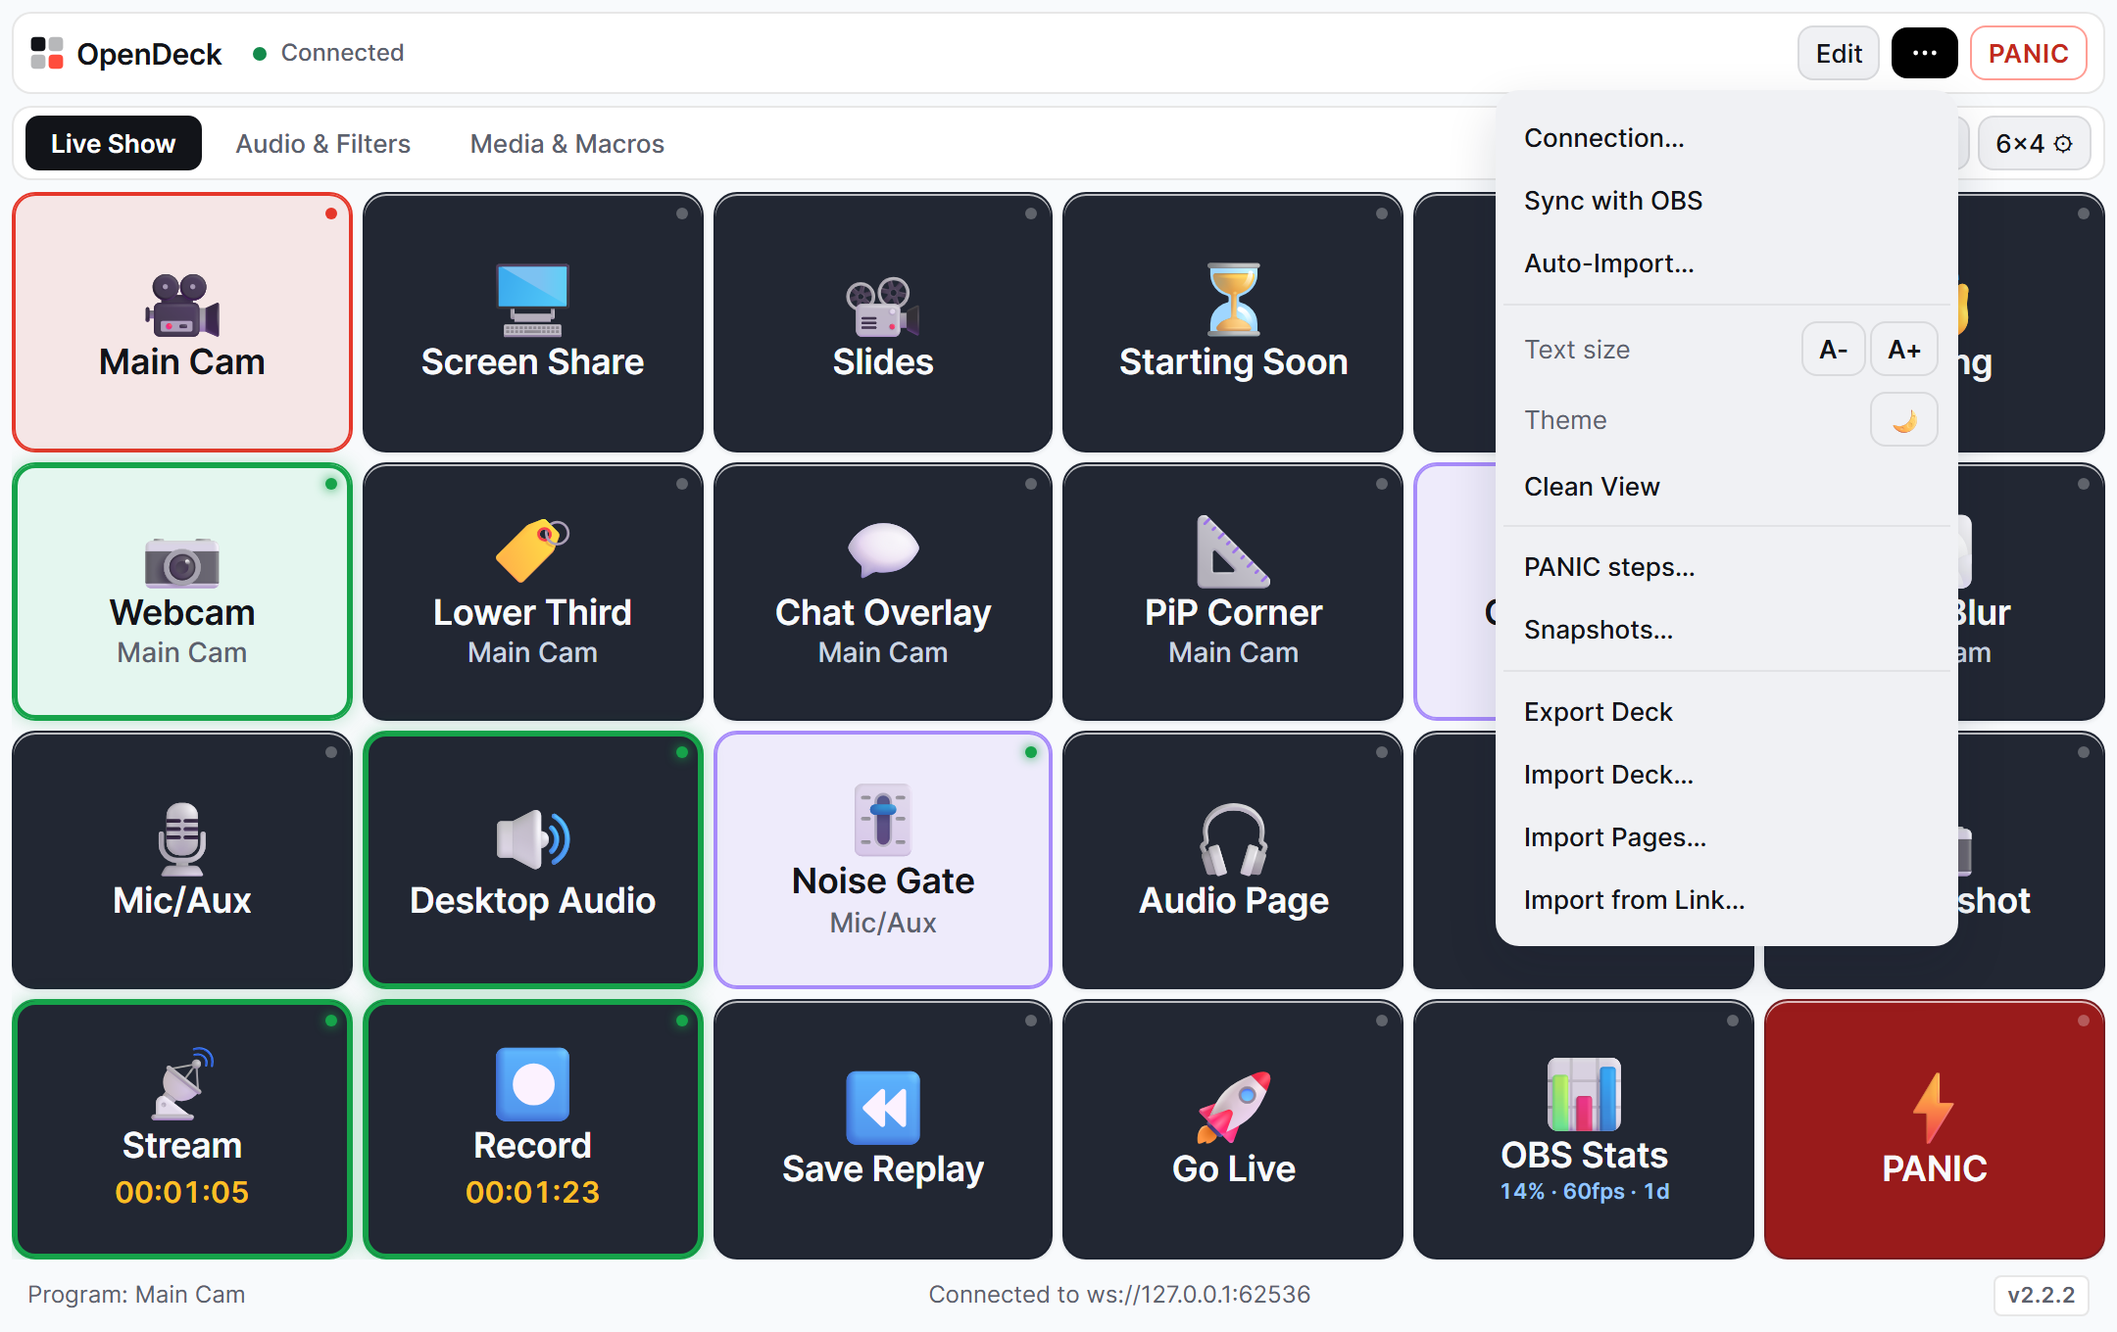
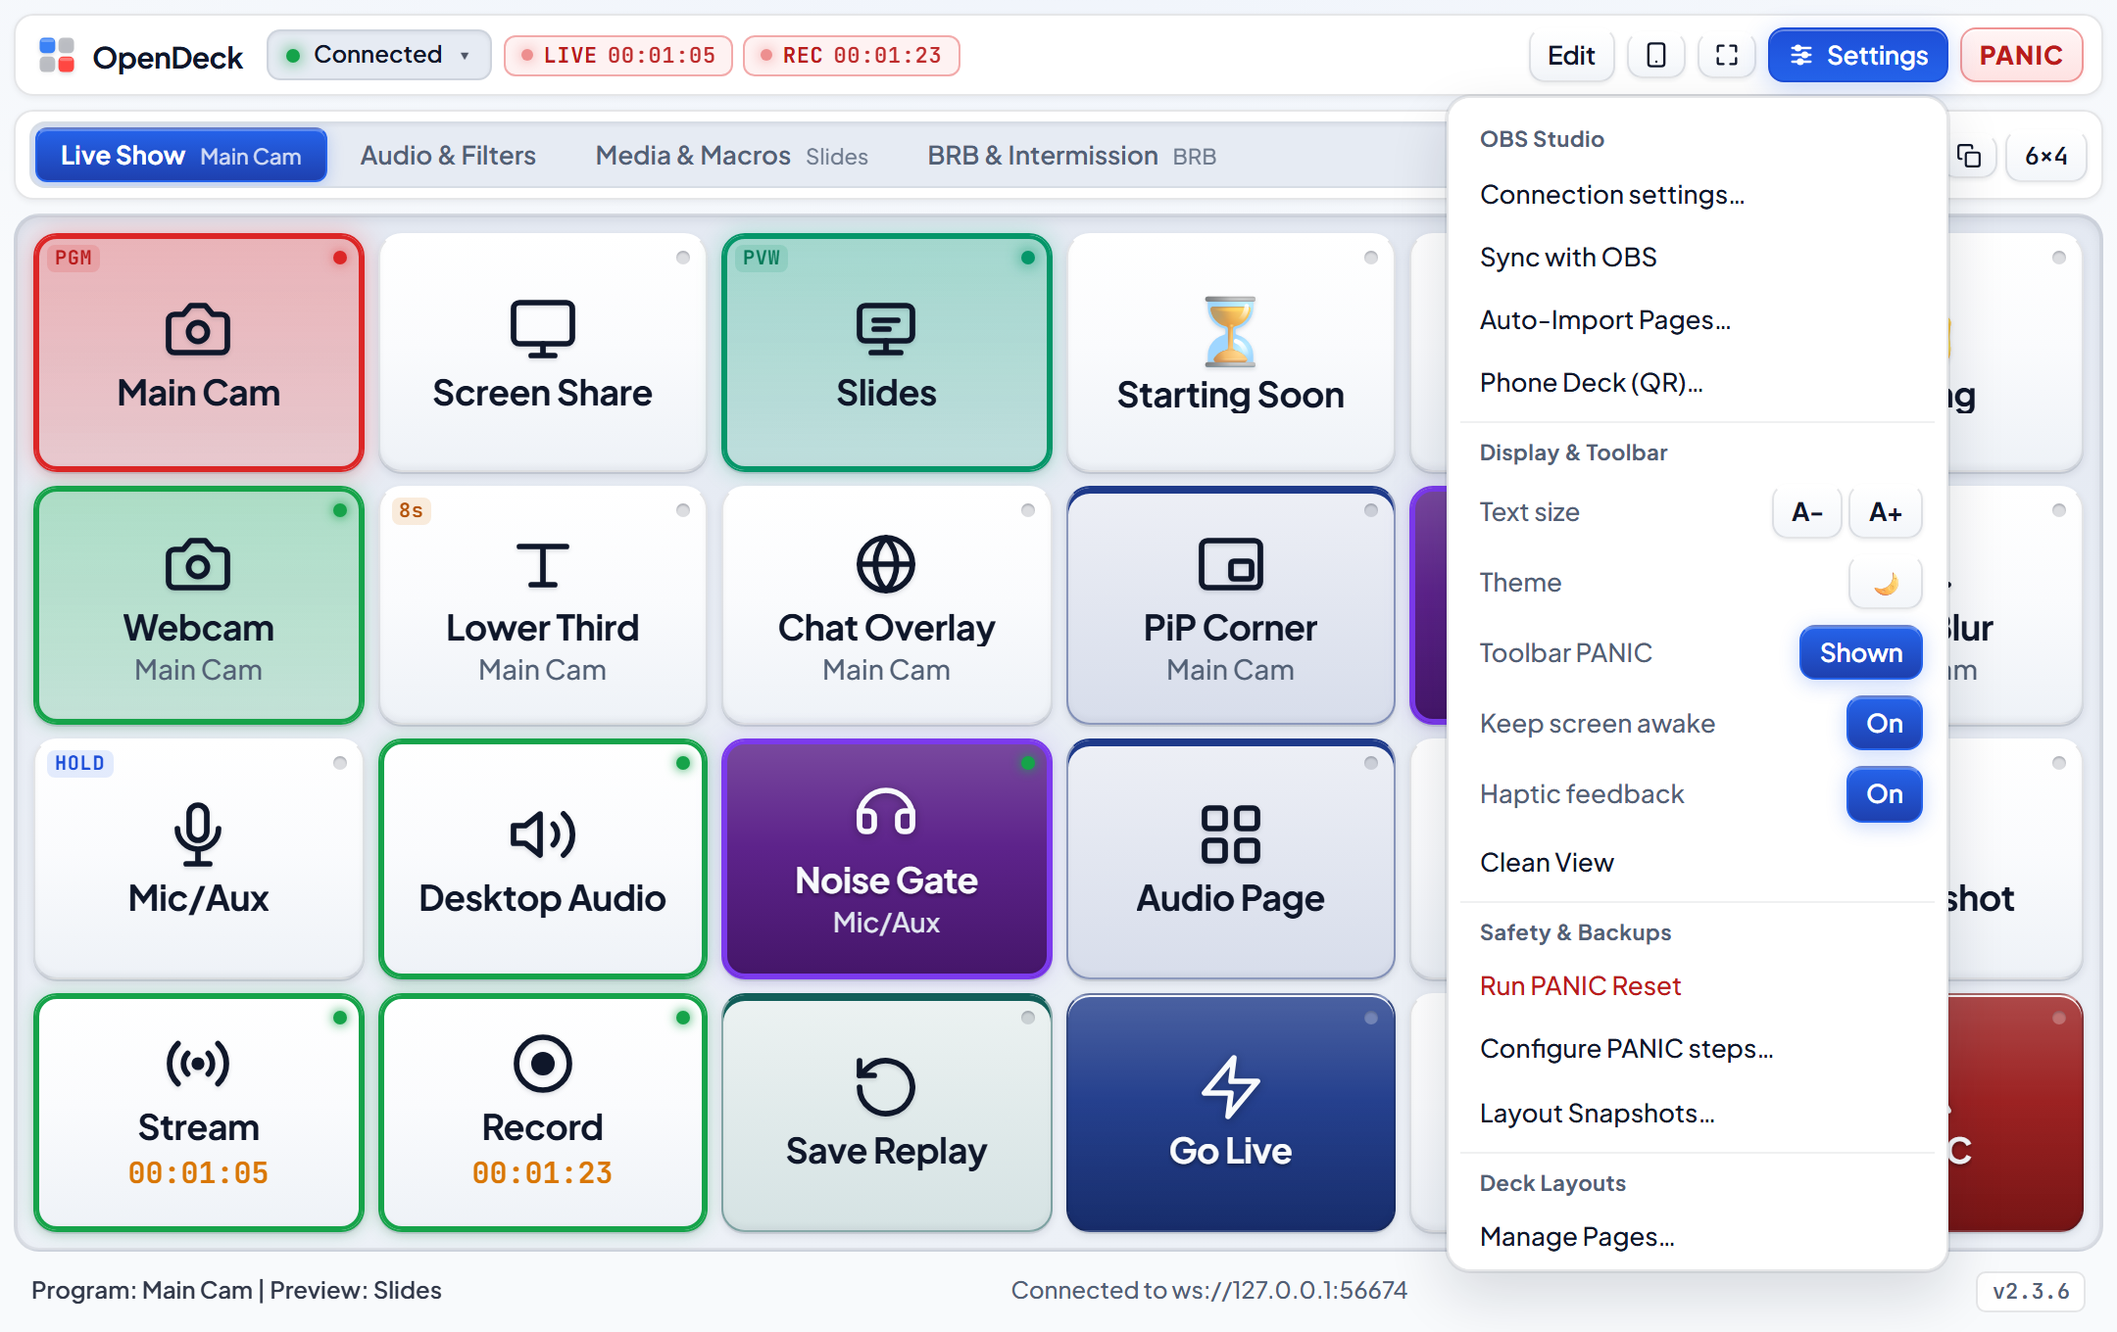
docs(release): refresh screenshots, update README, and bump to v2.4.0

diff --git a/deck.html b/deck.html
@@ -204,7 +204,7 @@
   <span id="scene-info">Program: —</span>
   <span id="msg-info" aria-live="polite">Ready</span>
   <span id="save-warning" class="save-warning" hidden title="Save failed: Export layout and use fewer or smaller Pad Graphics"></span>
-  <a id="version-badge" class="ver" href="https://github.com/JWCow/OpenDeck/releases" target="_blank" rel="noopener noreferrer" title="View OpenDeck releases on GitHub">v2.3.6</a>
+  <a id="version-badge" class="ver" href="https://github.com/JWCow/OpenDeck/releases" target="_blank" rel="noopener noreferrer" title="View OpenDeck releases on GitHub">v2.4.0</a>
 </div>
 <div id="clean-toast" class="clean-toast" role="status" aria-live="polite" hidden></div>
 

diff --git a/deck/obs-ws.js b/deck/obs-ws.js
@@ -1,7 +1,7 @@
 (() => {
   'use strict';
 
-  const VERSION = '2.3.6';
+  const VERSION = '2.4.0';
   const STORAGE_KEY = 'opendeck_config';
   const LEGACY_STORAGE_KEYS = ['obs_virtual_deck_v2', 'obs_deck_config_v2', 'obs_virtual_deck_v1'];
   let initialSaveFailed = false;

diff --git a/README.md b/README.md
@@ -4,12 +4,12 @@
 [![Download ZIP](https://img.shields.io/badge/Download-opendeck.zip-16a34a?logo=github)](https://github.com/JWCow/OpenDeck/releases/latest/download/opendeck.zip)
 [![Platforms](https://img.shields.io/badge/Windows%20%C2%B7%20macOS%20%C2%B7%20Linux%20%C2%B7%20Phone-OBS%2028%2B-334155)](#quick-start-obs-custom-browser-dock)
 
-**Virtual Stream Deck for OBS Studio (`obs-websocket` v5) — zero-backend UI v2.**  
+**Virtual Stream Deck for OBS Studio (`obs-websocket` v5) — zero-backend broadcast console.**  
 Run it three ways with the exact same Deck, Pages, and Pads:
 
-- 🖥 **[Desktop App](#%EF%B8%8F-desktop-app-electron)** — Standalone Electron app for **Windows** (`.exe`), **macOS** (`arm64`/`x64` `.dmg`/`.zip`), and **Linux** (`.AppImage`) with tray controls & Always on Top
+- 🖥 **[Desktop App](#%EF%B8%8F-desktop-app-electron)** — Standalone Electron app for **Windows** (`.exe`), **macOS** (`arm64`/`x64` `.dmg`/`.zip`), and **Linux** (`.AppImage`) with tray controls, Always on Top & 1-click Phone Deck QR
 - 🔌 **[OBS Browser Dock](#quick-start-obs-custom-browser-dock)** — Drop `deck.html` from [`opendeck.zip`](https://github.com/JWCow/OpenDeck/releases/latest/download/opendeck.zip) into an OBS Custom Browser Dock (no plugins, no server)
-- 📱 **[Phone / Tablet Deck](#-phone-deck)** — Control OBS from any phone on Wi-Fi via `Phone Helper` + QR code
+- 📱 **[Phone / Tablet Deck](#-phone-deck)** — Control OBS from any phone on Wi-Fi via **Phone Deck (QR)** (1-click in Desktop App, or offline QR + `Phone Helper` in browser/dock)
 
 **[⬇ All Desktop & Dock Downloads](https://github.com/JWCow/OpenDeck/releases)** · **[⬇ Latest opendeck.zip](https://github.com/JWCow/OpenDeck/releases/latest/download/opendeck.zip)**
 
@@ -23,55 +23,63 @@ Run it three ways with the exact same Deck, Pages, and Pads:
 
 | | Feature | What it does |
 |---|---|---|
-| ✨ | **UI v2 & State-First Pads** | Compact `Edit` / `⋯` / `PANIC` header with high-contrast tally states |
-| 🖥 | **Standalone Desktop App** | Windows, macOS & Linux app with `app://opendeck/` storage, tray & Always on Top |
-| 🪄 | **Auto-Import (Read-Only)** | Reads your OBS scenes, sources, filters & audio into ready Pages |
-| 🎛 | **23 Actions & Hold Pads** | Scenes, PiP, filters, audio, media, streams, stats, hotkeys, HTTP & Hold-to-Run |
-| 🖼 | **Custom Icons** | Upload PNG/JPG/WebP/SVG artwork (Fit Icon, Full Face, Hide Text) |
-| 📄 | **Pages, Linked Scenes & Undo** | `2×2` to `12×12` grids, Scene-Linked Pages, Undo/Redo, crisp down to `360×420` |
-| ⏱ | **Timers & Macros** | Auto-Off countdowns, multi-step Timed Macros with abort cleanup, and **PANIC** |
-| 🌓 | **Themes, Sizing & Clean View** | Dark/Light Studio toggle, `A-` / `A+` font scaling & **Clean View** (`?clean=1`) |
-| 💾 | **Portable JSON & Snapshots** | **Export Deck**, **Import Pages…**, **Import from Link…** & IndexedDB **Snapshots…** |
+| ✨ | **Anodized Console UI & Live Strip** | Clickable status pill, cross-page `LIVE` / `REC` / `PAUSED` timecode strip, `Edit` / `Commands` / `Phone Deck` / `Clean View` / `Settings` / `PANIC` header, plus `PVW`/`PGM` & `HOLD`/timer cue badges |
+| 🖥 | **Standalone Desktop App** | Windows, macOS & Linux app with `app://opendeck/` storage, tray, Always on Top & 1-click Phone Deck QR host |
+| 🪄 | **Auto-Import (Read-Only)** | Reads your OBS scenes, sources, filters & audio into ready Pages with selective scene filtering, Starter Layouts & live preview counts |
+| 🎛 | **24 Actions & Hold Pads** | Scenes, PiP, filters, audio, media, text/counters, streams, stats, hotkeys, HTTP & Hold-to-Run |
+| 🎨 | **Broadcast Icons, Styles & Art** | Built-in Broadcast SVG icons + Emoji library, Solid vs Soft Tint styles, or custom PNG/JPG/WebP/SVG Pad Graphics (`Fit Icon`, `Full Face`, `Hide Text`) |
+| 📄 | **Pages, Search & Context Menus** | `2×2` to `12×12` grids (active grid-size button, e.g. `6×4` / `8×8`), Scene-Linked Pages, Quick Search (`Ctrl+K`), Manage Pages (search, bulk delete/export), right-click Pad & Page menus, Undo/Redo, crisp down to `360×420` |
+| ⏱ | **Timers, Macros & PANIC** | Auto-Off countdowns, multi-step Timed Macros with abort cleanup & **PANIC** (toggleable in **Settings**) |
+| 🌓 | **Themes, Sizing & Clean View** | Dark/Light Studio toggle, `A-` / `A+` Font Scale & top-bar **Clean View** (`?clean=1`) |
+| 💾 | **Portable JSON & Snapshots** | **Export Deck**, **Import Pages…**, **Import from Link…** & IndexedDB **Layout Snapshots…** |
 
 <br>
 
 ![OpenDeck Edit Mode & Command Palette](docs/screenshots/opendeck-edit.png)
 
-> **Edit Mode:** Click **Edit** to drag commands from the right palette onto Pads, drag Pads across Page tabs, reorder Pages, or multi-select to duplicate, recolor, and move in bulk.
+> **Edit Mode:** Click **Edit** to toggle the **Commands** palette and drag actions onto Pads, drag Pads across Page tabs, reorder Pages, open the tabbed **All / Action / Appearance** Pad Editor, right-click Pads or Page tabs (Edit, Run, Duplicate, Copy, Paste, Paste Style, Move to Page, Clear), or multi-select to duplicate, recolor, and move in bulk.
 
 <br>
 
-![OpenDeck Light Studio & More Menu](docs/screenshots/opendeck-light.png)
+![OpenDeck Light Studio & Settings Menu](docs/screenshots/opendeck-light.png)
 
-> **Light Studio & `⋯` Menu:** Switch between Dark/Light Studio themes, adjust `A-`/`A+` text size, enable **Clean View** (`?clean=1`), or manage **Connection…**, **Auto-Import…**, **Snapshots…**, and **Export Deck** from `⋯`.
+> **Light Studio & Settings Menu:** Switch between Dark/Light Studio themes, adjust `A-`/`A+` text size, toggle **Toolbar PANIC**, enable **Clean View** (`?clean=1`), or open **Connection settings…**, **Auto-Import Pages…**, **Phone Deck (QR)…**, **Layout Snapshots…**, **Manage Pages…**, and **Export Deck** from **Settings**.
+
+<br>
+
+![OpenDeck Pad Editor (Appearance Tab & Broadcast Icons)](docs/screenshots/opendeck-desktop.png)
+
+> **Tabbed Pad Editor:** Switch between **All**, **Action**, and **Appearance** tabs with a live Pad preview, built-in **Broadcast** SVG & **Emoji** icon libraries, **Solid** vs **Soft Tint** surface styles, and custom Pad Graphics.
 
 <br>
 
 <details>
-<summary>📋 <strong>All 23 Action Types</strong></summary>
+<summary>📋 <strong>All 24 Action Types</strong></summary>
 
 <br>
 
 | Category | Action | Tag | Capabilities |
 |---|---|---|---|
-| 🎬 **Scenes** | Switch Scene | `SCN` | Named scene, Next, or Previous |
+| 🎬 **Scenes** | Switch Scene | `SCN` | Named scene, Next, or Previous *(Studio Mode `PVW`/`PGM` badges)* |
 | | Studio Mode | `STD` | Toggle, load Preview, or Transition *(Auto-Off)* |
 | | Scene Transition | `TRN` | Switch transition & duration |
 | 🧩 **Sources** | Source Visibility | `SRC` | Toggle, Show, Hide, Solo *(Auto-Off, Hold)* |
 | | Transform / PiP | `PIP` | Corner PiP, Center 50%, or Reset |
 | | Media Playback | `MED` | Play/Pause, Restart, Stop, Next, Prev *(Auto-Off)* |
 | | Image / Slideshow | `IMG` | Swap image path or step slides |
+| | Text / Counter | `TXT` | Set text, cycle presets, or `+/-` counter *(Auto-Off)* |
 | | Browser Source | `WEB` | Refresh cache or update URL |
 | | Take Screenshot | `CAP` | Snapshot source or scene |
 | 🎚 **Filters & Audio** | Filter Control | `FLT` | Toggle, Enable, or Disable *(Auto-Off, Hold)* |
 | | Input Mute | `MUT` | Toggle, Mute, or Unmute *(Auto-Off, Hold)* |
-| | Input Volume | `VOL` | Set dB or step `+/- dB` |
+| | Input Volume | `VOL` | Set dB or step `+/- dB` *(Auto-Off, Hold)* |
 | | Audio Monitor | `MON` | Off / Monitor Only / Monitor & Output |
 | 📡 **Broadcast** | Stream / Record / Cam | `OUT` | Stream, Record, Pause, VCam, Replay *(Auto-Off)* |
 | | Recording Chapter | `CHP` | Insert chapter marker |
 | | Telemetry Stats | `STS` | Live CPU %, FPS & dropped frames |
 | | OBS Hotkey | `KEY` | Trigger OBS hotkey by name or key sequence |
-| | Profile / Collection | `PRF` / `COL` | Switch OBS Profile or Scene Collection |
+| | Switch Profile | `PRF` | Switch OBS Profile |
+| | Scene Collection | `COL` | Switch OBS Scene Collection |
 | ⚡ **Automation** | Switch Page | `PAG` | Jump to Page or Next / Prev |
 | | Timed Macro | `MCR` | Multi-step sequence with `Wait (ms)` & abort cleanup |
 | | HTTP / Webhook | `API` | `GET`/`POST`/`PUT` webhook or local bridge call |
@@ -84,8 +92,6 @@ Run it three ways with the exact same Deck, Pages, and Pads:
 ## 🖥 Desktop App (Electron)
 
 Prefer a standalone window instead of an OBS dock? Download the desktop installer (**Windows** `.exe`, **macOS** Apple Silicon `arm64` & Intel `x64` `.dmg`/`.zip`, **Linux** `.AppImage`) from [Releases](https://github.com/JWCow/OpenDeck/releases) or run it from source.
-
-![OpenDeck Standalone Desktop App](docs/screenshots/opendeck-desktop.png)
 
 - **Stable storage & tray controls:** Serves the Deck from a fixed `app://opendeck/` origin (preserving layouts across updates and Linux AppImage mounts) with window state persistence, Always on Top (`Ctrl/Cmd+Shift+T`), and system tray controls.
 - **Auto port discovery (ADR-0002):** Reads OBS `obs-websocket/config.json` read-only for `server_port` on launch and never reads or persists passwords.
@@ -110,29 +116,28 @@ Prefer a standalone window instead of an OBS dock? Download the desktop installe
 
 <br>
 
-**4. 🔗 Connect** — Open **⋯ → Connection…**, enter your password in **Pass** (if set), click **Connect**, and run **⋯ → Auto-Import…** *(the Desktop App and installers auto-detect your OBS port via ADR-0002 without storing passwords)*.
+**4. 🔗 Connect** — Click the status pill (or open **Settings → Connection settings…**), enter your password in **Pass** (if set), click **Connect**, and run **Settings → Auto-Import Pages…** *(the Desktop App and installers auto-detect your OBS port via ADR-0002 without storing passwords)*.
 
-> 💡 *Upgrading from v1/v2.x?* Opening `deck.html` at the same `file://` path migrates your layout automatically. Click **⋯ → Export Deck** first for a backup.
+> 💡 *Upgrading from v1/v2.x?* Opening `deck.html` at the same `file://` path migrates your layout automatically. Click **Settings → Export Deck** first for a backup.
 
 <br>
 
 ## 📱 Phone Deck
 
-Control OBS from a phone or tablet on the same Wi-Fi. Needs [Node.js](https://nodejs.org) on the OBS computer.
+Control OBS from a phone or tablet on the same Wi-Fi using the universal **Phone Deck (QR)** dialog — click the top-bar **Phone Deck** icon or open **Settings → Phone Deck (QR)…**.
 
 ![OpenDeck Phone Deck Touch View](docs/screenshots/opendeck-phone.png)
 
-1. **Start OBS first** (WebSocket server enabled), then double-click **Phone Helper.bat** (Windows) or run `node scripts/lan-helper.mjs`.
-2. The helper finds the port your running OBS uses, then prints the phone URLs and a **QR code** for your home-network address. Scan it, or type the URL on the phone.
-3. **Your layout:** design the Deck on the PC and click **⋯ → Export Deck**. If `obs-virtual-deck*.json` is in your Downloads folder, Phone Helper serves the newest one and the QR link carries it; the phone asks before loading it (a Snapshot is saved first). Otherwise the phone starts with its own layout. Export again and restart the helper to update it.
+- **Desktop App (1-click):** Opening **Phone Deck (QR)** automatically starts the built-in local LAN host, generates a QR code, and syncs layout edits live — no Node.js or extra script needed.
+- **OBS Browser Dock / Browser:** Enter your computer's Wi-Fi IP in the **Phone Deck (QR)** dialog to generate an offline QR code directly on the page, then start OBS (WebSocket server enabled) and run **Phone Helper.bat** (Windows) or `node scripts/lan-helper.mjs` (requires [Node.js](https://nodejs.org)). Use **Export Layout** in the dialog (or **Settings → Export Deck**) to share your layout via `Downloads/obs-virtual-deck*.json` or `layout.json` in the deck folder.
 
 | Good to know | |
 |---|---|
-| Port | Uses `8765`; if taken, any free port (the URL changes, so use the one printed). Change it in the `.bat`. |
+| Port | Uses `8765`; if taken, any free port (adjust in **Helper Port** or the `.bat`). |
 | Several devices | Any number of phones can open the same link. Each keeps its own layout. |
-| OBS detection | Windows only. Elsewhere it uses `4455` or `--obs-port=`. |
-| Load a layout by hand | **⋯ → Import from Link…** with `http://<ip>:<port>/layout.json`. |
-| Password | Never in the link. Type it once on the phone (**⋯ → Connection… → Pass**). |
+| OBS detection | Desktop App auto-detects the local OBS port across platforms; `Phone Helper` auto-detects on Windows and uses `4455` or `--obs-port=` elsewhere. |
+| Load a layout by hand | **Settings → Import from Link…** with `http://<ip>:<port>/layout.json`. |
+| Password | Never in the link or QR code. Type it once on the phone (click the status pill or **Settings → Connection settings… → Pass**). |
 
 <br>
 
@@ -141,10 +146,10 @@ Control OBS from a phone or tablet on the same Wi-Fi. Needs [Node.js](https://no
 | Symptom | Fix |
 |---|---|
 | 🔴 **Disconnected** | Check OBS **Tools → WebSocket Server Settings → Enable WebSocket server** |
-| 🔑 **Auth Failed** | Copy password from OBS **Show Connect Info** into **⋯ → Connection… → Pass** |
+| 🔑 **Auth Failed** | Copy password from OBS **Show Connect Info** into **Settings → Connection settings… → Pass** (or click the status pill) |
 | ⬜ **Blank Dock** | URL must start with `file:///` and point to `deck.html` (macOS: allow Files & Folders access) |
-| 🔄 **Missing Items** | Connect to OBS, then click **⋯ → Sync with OBS** |
-| 📂 **Layout Reset / Sharing** | Layouts live in browser storage, not the folder — click **⋯ → Export Deck** (saving `layout.json` in the deck folder also lets `Phone Helper.bat` and external tools read/extend your deck), **⋯ → Import Pages…** to append new Pages onto an active Deck, or **⋯ → Snapshots…** to roll back |
+| 🔄 **Missing Items** | Connect to OBS, then click **Settings → Sync with OBS** |
+| 📂 **Layout Reset / Sharing** | Layouts live in browser storage, not the folder — click **Settings → Export Deck** (saving `layout.json` in the deck folder also lets `Phone Helper.bat` and external tools read/extend your deck), **Settings → Import Pages…** to append Pages onto an active Deck, **Manage Pages…** to bulk export/delete, or **Settings → Layout Snapshots…** to roll back |
 | ⌨ **External App Hotkeys** | For OS hotkeys outside OBS (triggered via `API` / `http` pads), launch optional **Hotkey Bridge.bat** (`127.0.0.1:3905/hotkey`) |
 
 <br>
@@ -158,7 +163,7 @@ Control OBS from a phone or tablet on the same Wi-Fi. Needs [Node.js](https://no
 | 🎮 **Gaming PC** (local) | `file:///.../obs-virtual-deck/deck.html?port=4455` |
 | 📡 **Streaming PC** (remote) | `file:///.../obs-virtual-deck/deck.html?host=192.168.1.50&port=4455` |
 
-Each dock connects to the OBS in its own URL, but **both share one layout**: the browser keeps a single storage area for every `file://` page, so copying the folder does not separate them. Keep the controls for both machines on separate Pages. Leave the **Host** and **Port** fields in **⋯ → Connection…** alone in these docks; typing a host or port there is saved and then overrides the URL in every dock. On Phone Deck, add the same `?host=` and `?port=` to the LAN URL (e.g. `http://192.168.1.50:8765/deck.html?host=192.168.1.50&port=4455`).
+Each dock connects to the OBS in its own URL, but **both share one layout**: the browser keeps a single storage area for every `file://` page, so copying the folder does not separate them. Keep the controls for both machines on separate Pages. Leave the **Host** and **Port** fields in **Settings → Connection settings…** alone in these docks; typing a host or port there is saved and then overrides the URL in every dock. On Phone Deck, add the same `?host=` and `?port=` to the LAN URL (e.g. `http://192.168.1.50:8765/deck.html?host=192.168.1.50&port=4455`).
 
 <br>
 
